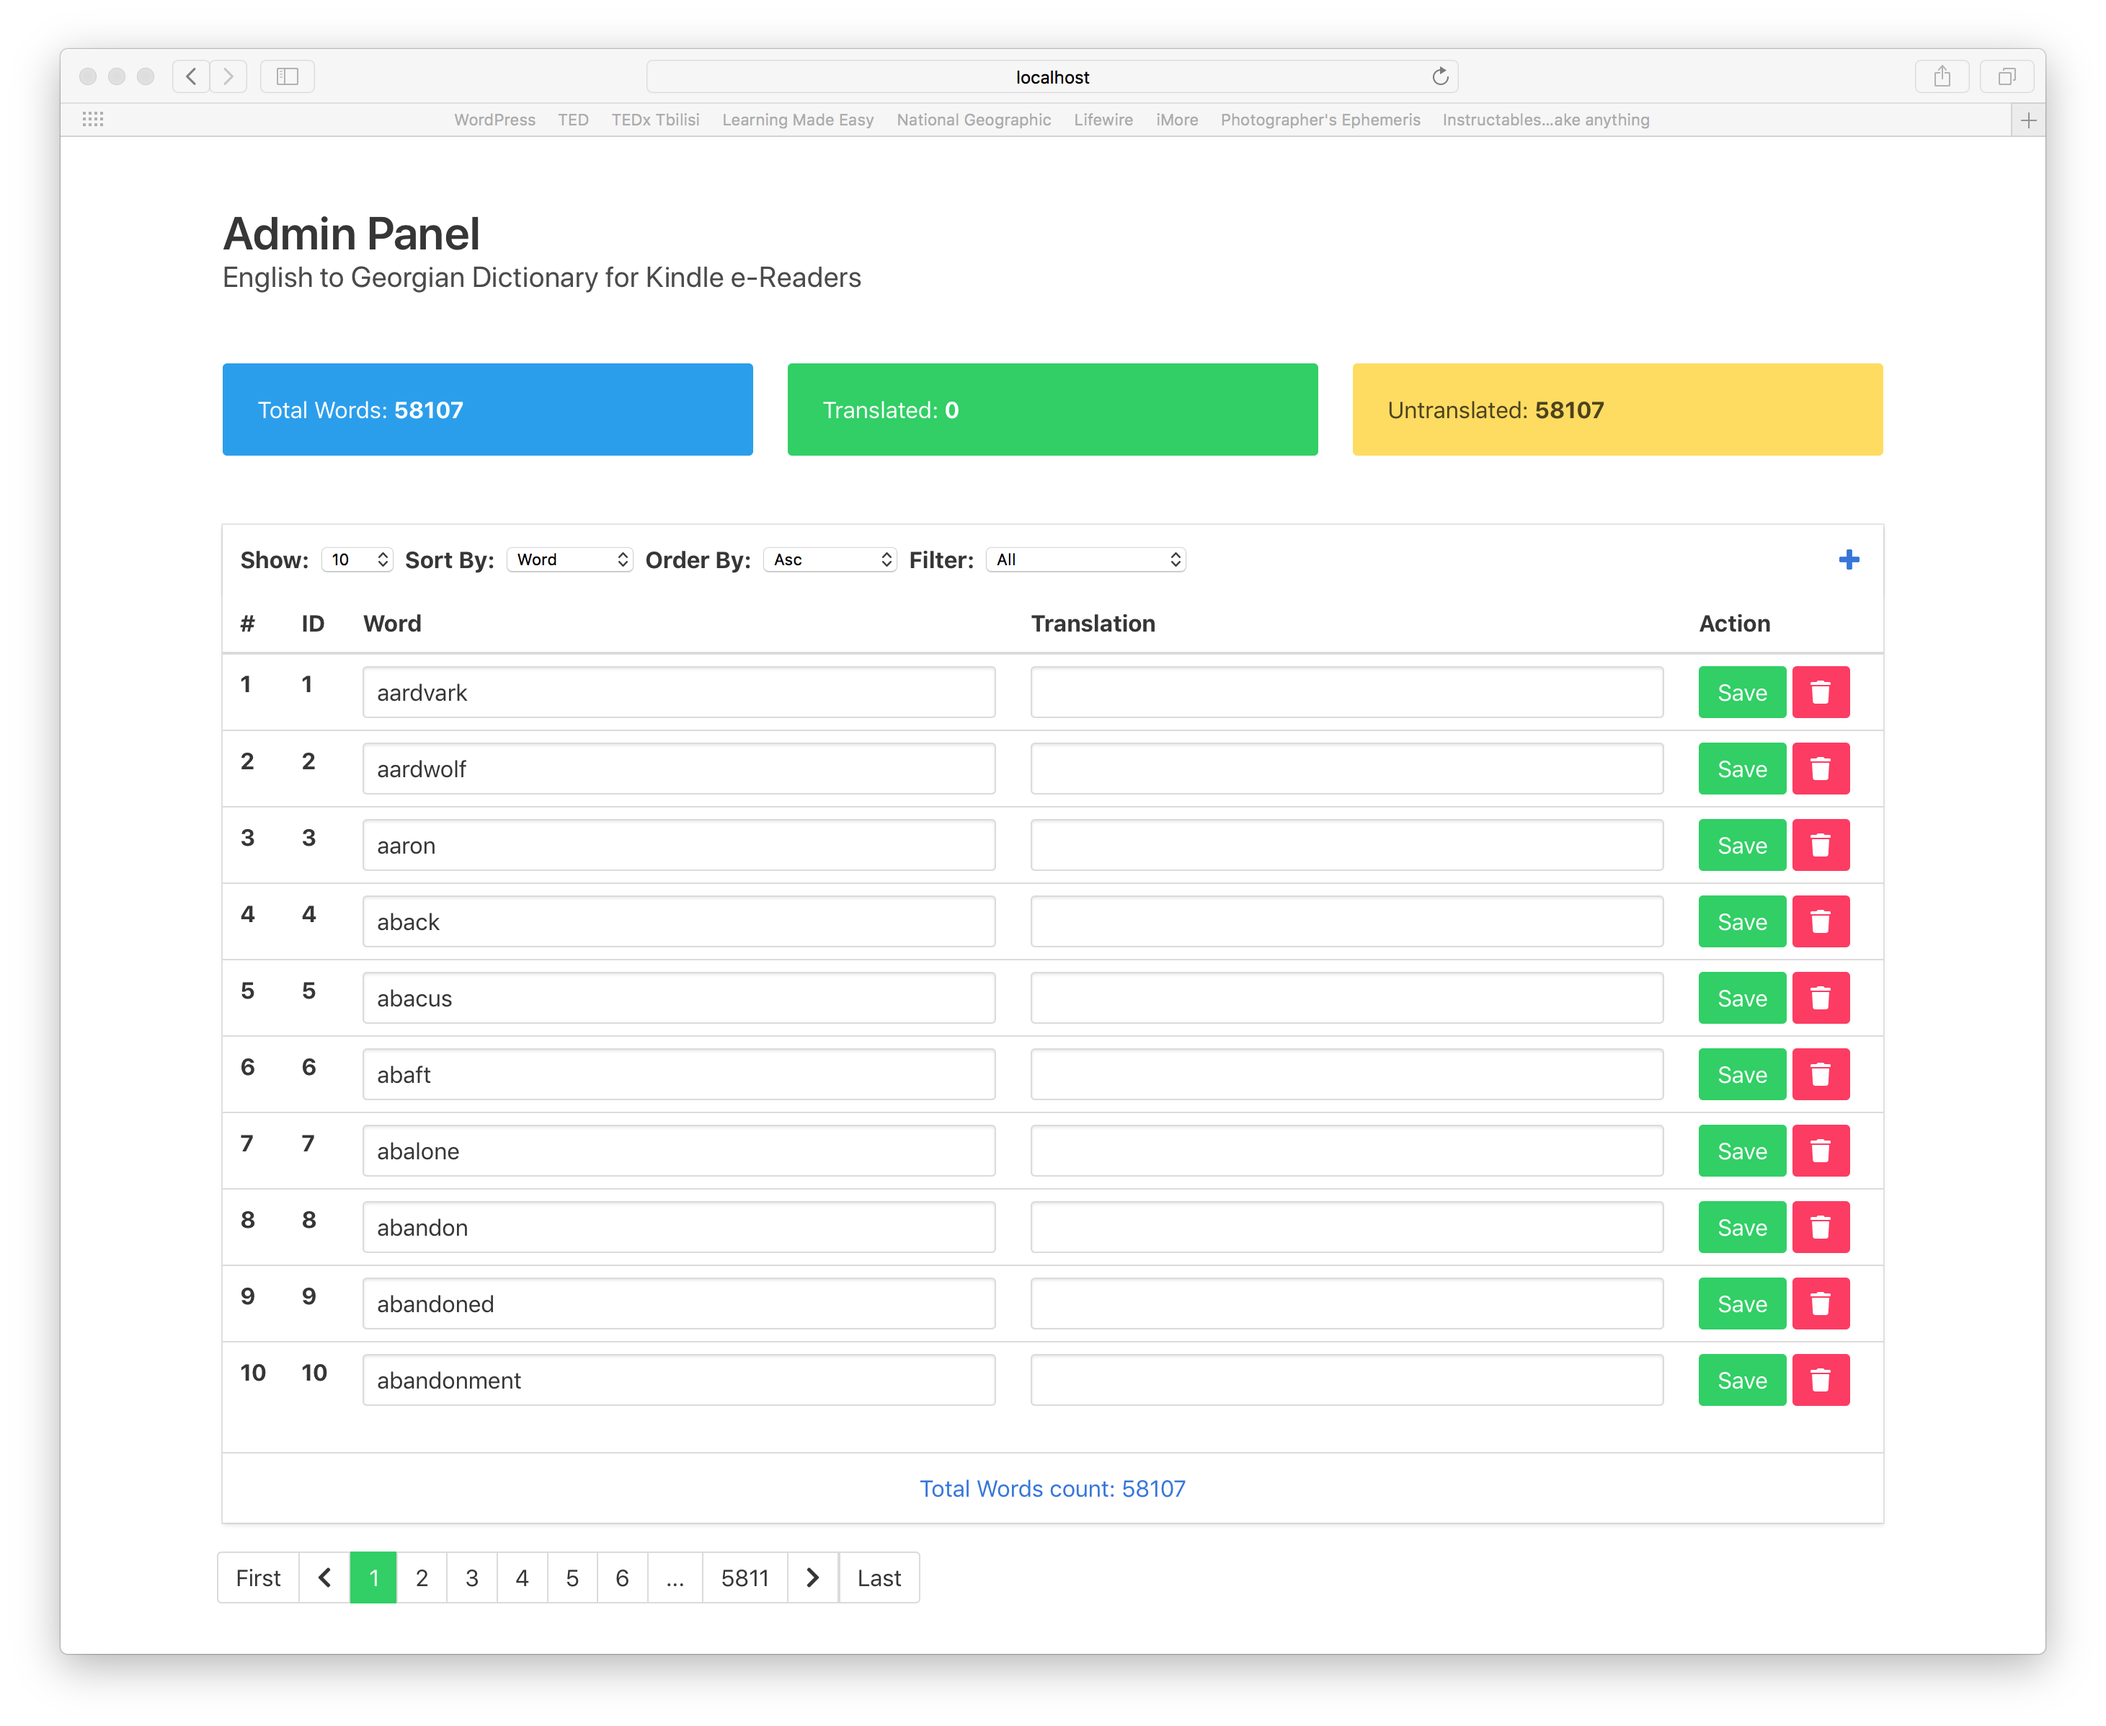
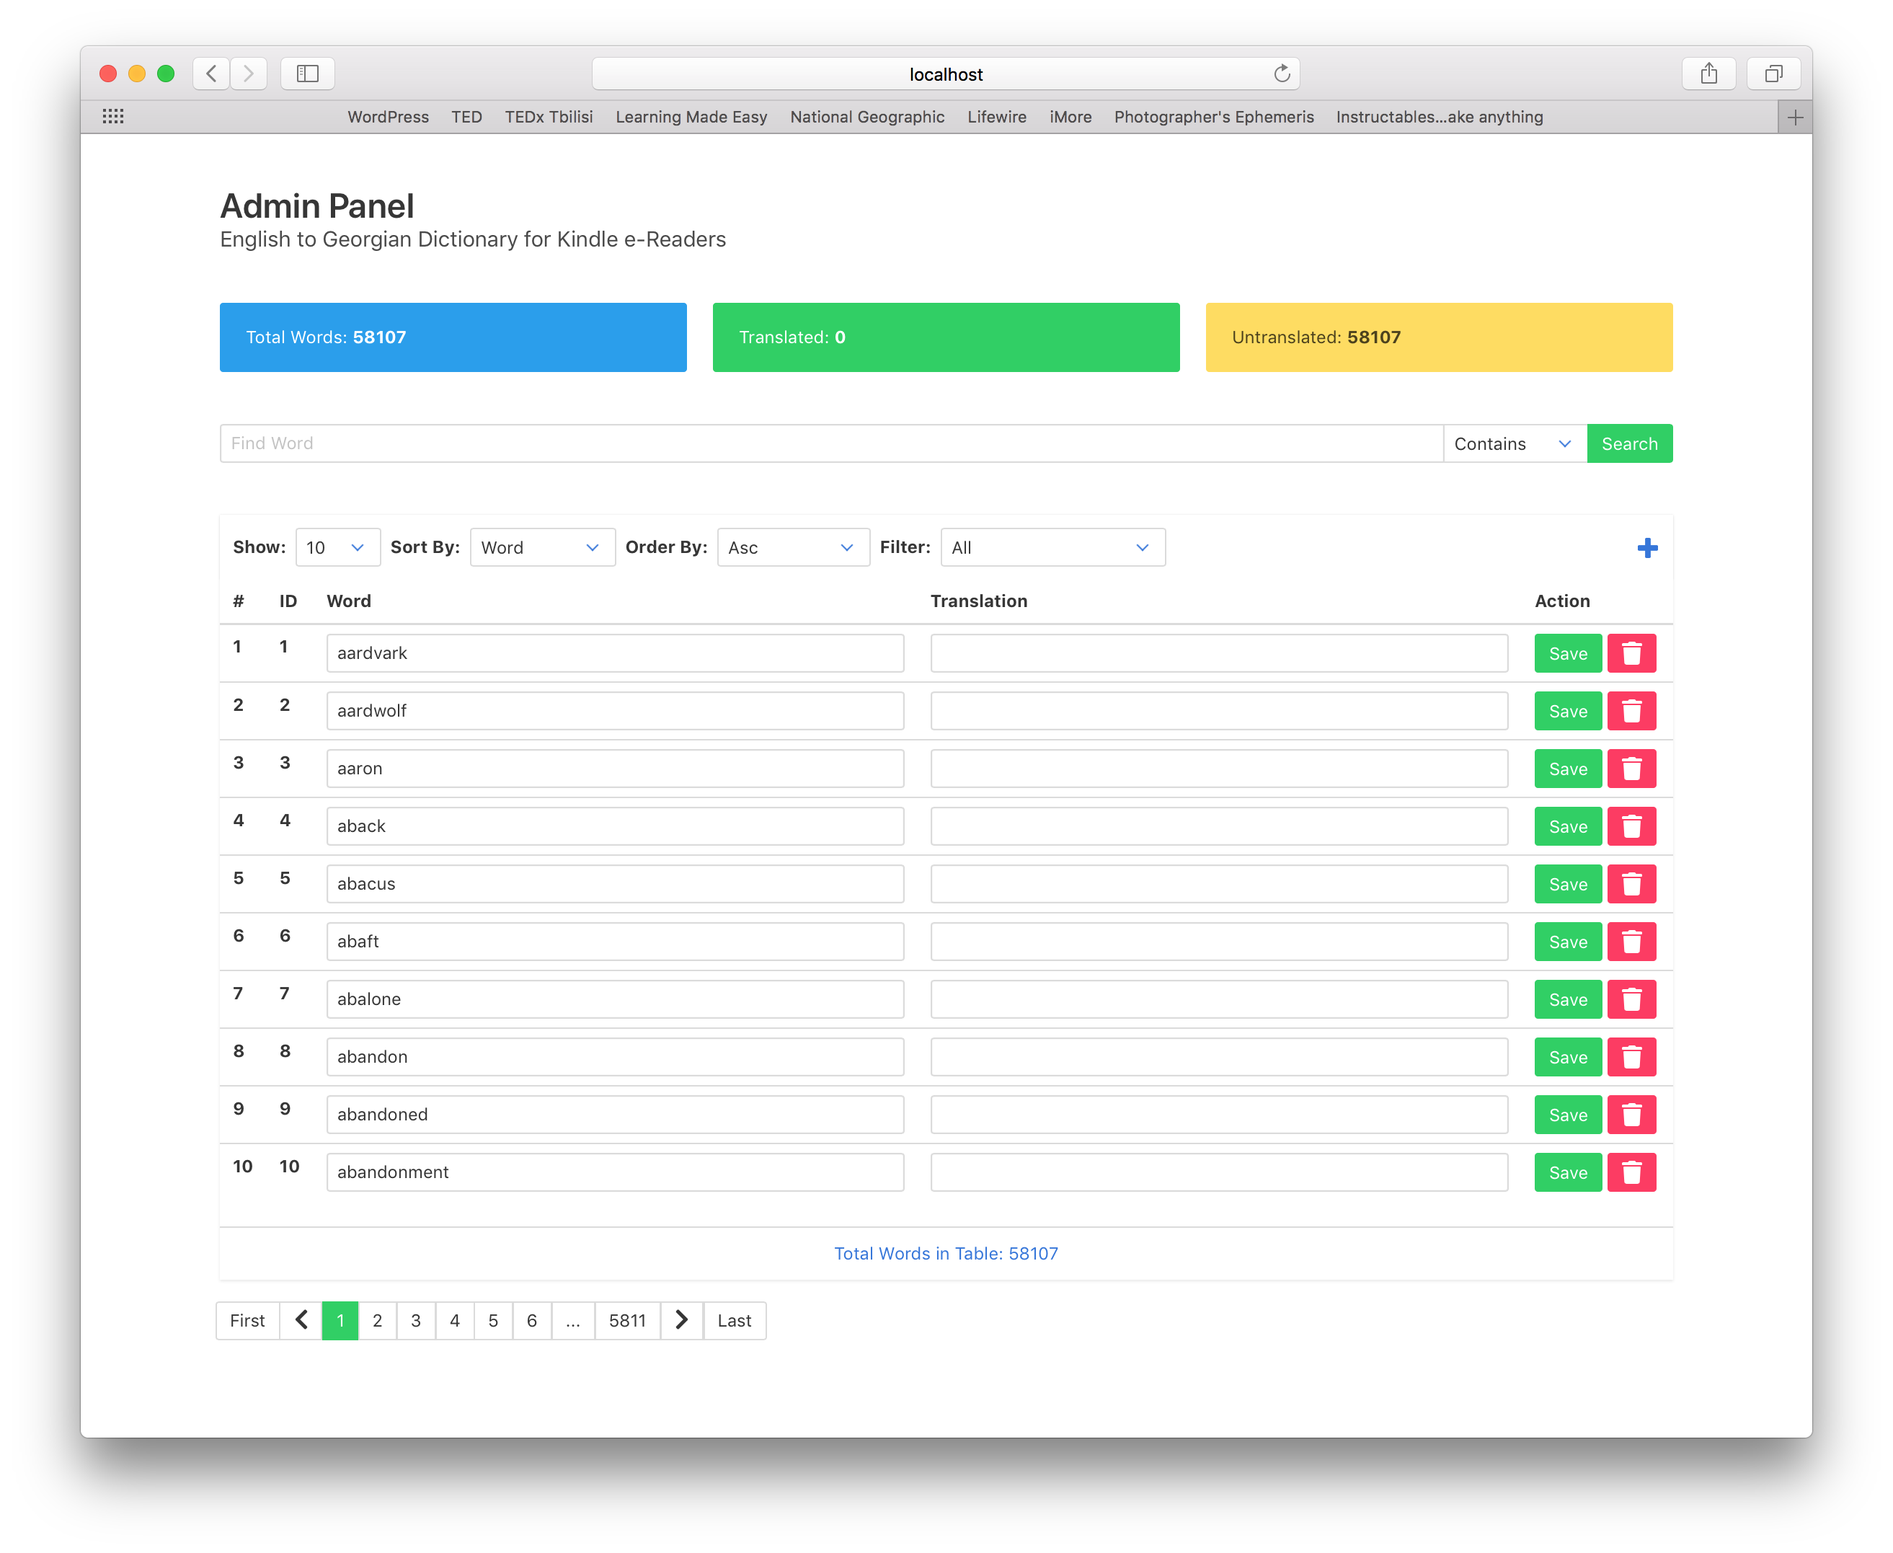
Added Search

diff --git a/admin/index.html b/admin/index.html
@@ -45,35 +45,72 @@
                     </div>
                 </div>
         </section>
+        <section class="hero">
+            <div class="hero-body" style="padding-bottom: 0">
+                <div class="container">
+                    <div class="columns">
+                        <form class="column" v-on:submit.prevent="init()">
+                            <div class="field has-addons">
+                                <div class="control  is-expanded">
+                                    <input class="input" v-model="searchTerm" type="text" placeholder="Find Word">
+                                </div>
+                                <p class="control">
+                                    <span class="select">
+                                        <select v-model="searchMode"> 
+                                            <option value="contains">Contains</option>
+                                            <option value="equals">Equals</option>
+                                            <option value="starts">Starts with</option>
+                                            <option value="ends">Ends with</option>
+                                        </select>
+                                    </span>
+                                </p>
+                                <div class="control">
+                                    <button type="submit" class="button is-success">
+                                        Search
+                                    </button>
+                                </div>
+                            </form>
+                        </div>
+                    </div>
+                </div>
+        </section>
         <section class="section">
             <div class="container">
                 <div class="card">
                     <header class="card-header">
                         <p class="card-header-title">
                             Show: &nbsp;
-                            <select v-model="limit" @change="init()">
-                                <option value="10">10</option>
-                                <option value="25">25</option>
-                                <option value="50">50</option>
-                                <option value="100">100</option>
-                            </select>
+                            <span class="select">
+                                <select v-model="limit" @change="init()">
+                                    <option value="10">10</option>
+                                    <option value="25">25</option>
+                                    <option value="50">50</option>
+                                    <option value="100">100</option>
+                                </select>
+                            </span>
                             &nbsp; Sort By: &nbsp;
-                            <select v-model="sort" @change="init()">
-                                <option value="id">ID</option>
-                                <option value="word">Word</option>
-                                <option value="translation">Translation</option>
-                            </select>
+                            <span class="select">
+                                <select v-model="sort" @change="init()">
+                                    <option value="id">ID</option>
+                                    <option value="word">Word</option>
+                                    <option value="translation">Translation</option>
+                                </select>
+                            </span>
                             &nbsp; Order By: &nbsp;
-                            <select v-model="order" @change="init()">
-                                <option value="asc">Asc</option>
-                                <option value="desc">Descending</option>
-                            </select>
+                            <span class="select">                        
+                                <select v-model="order" @change="init()">
+                                    <option value="asc">Asc</option>
+                                    <option value="desc">Descending</option>
+                                </select>
+                            </span>
                             &nbsp; Filter: &nbsp;
-                            <select v-model="filter" @change="init()">
-                                <option value="0">All</option>
-                                <option value="1">Translated</option>
-                                <option value="2">Whithout Translation</option>
-                            </select>
+                            <span class="select">                        
+                                <select v-model="filter" @change="init()">
+                                    <option value="0">All</option>
+                                    <option value="1">Translated</option>
+                                    <option value="2">Whithout Translation</option>
+                                </select>
+                            </span>
                         </p>
                         <a href="#" class="card-header-icon" aria-label="more options" @click="add()">
                             <span class="icon">
@@ -112,7 +149,7 @@
                     </div>
                     <footer class="card-footer">
                         <a href="#" class="card-footer-item">
-                            <span>Total Words count: {{ count }}</span>
+                            <span>Total Words in Table: {{ count }}</span>
                         </a>
                     </footer>
                 </div>

diff --git a/server.js b/server.js
@@ -23,12 +23,32 @@ app.get('/count', (request, response) => {
     let sqlString = ''
 
     if(request.query.filter == 1) {
-        sqlString = ' WHERE translation IS NOT NULL'
+        sqlString = ' AND translation IS NOT NULL'
     } else if(request.query.filter == 2) {
-        sqlString = ' WHERE translation IS NULL'
+        sqlString = ' AND translation IS NULL'
     }
+    
+    let sqlString1 = ''
 
-    db.all(`SELECT count(*) as count FROM words ${sqlString}`, [], (err, rows) => {
+    if(request.query.searchTerm) {
+        const term = request.query.searchTerm
+        switch (request.query.searchMode) {
+            case 'contains':
+                sqlString1 = ` AND word like '%${term}%' `
+                break;
+            case 'starts':
+                sqlString1 = ` AND word like '${term}%' `
+                break;
+            case 'ends':
+                sqlString1 = ` AND word like '%${term}' `
+                break;
+            default:
+                sqlString1 = ` AND word = '${term}' `
+                break;
+        }
+    }
+    
+    db.all(`SELECT count(*) as count FROM words WHERE 1=1 ${sqlString} ${sqlString1}`, [], (err, rows) => {
         if (err) {
             throw new Error(err)
         }
@@ -82,12 +102,32 @@ app.get('/fetch', (request, response) => {
     let sqlString = ''
 
     if(request.query.filter == 1) {
-        sqlString = ' WHERE translation IS NOT NULL'
+        sqlString = ' AND translation IS NOT NULL'
     } else if(request.query.filter == 2) {
-        sqlString = ' WHERE translation IS NULL'
+        sqlString = ' AND translation IS NULL'
+    }
+
+    let sqlString1 = ''
+
+    if(request.query.searchTerm) {
+        const term = request.query.searchTerm
+        switch (request.query.searchMode) {
+            case 'contains':
+                sqlString1 = ` AND word like '%${term}%' `
+                break;
+            case 'starts':
+                sqlString1 = ` AND word like '${term}%' `
+                break;
+            case 'ends':
+                sqlString1 = ` AND word like '%${term}' `
+                break;
+            default:
+                sqlString1 = ` AND word = '${term}' `
+                break;
+        }
     }
     
-    db.all(`SELECT *, 0 as isLoading FROM words ${sqlString} ORDER BY ${(request.query.sort || 'word')} ${(request.query.order || 'asc')} LIMIT ${(request.query.offset || 0)}, ${(request.query.limit || 10)} `, [], (err, rows) => {
+    db.all(`SELECT *, 0 as isLoading FROM words WHERE 1=1 ${sqlString} ${sqlString1} ORDER BY ${(request.query.sort || 'word')} ${(request.query.order || 'asc')} LIMIT ${(request.query.offset || 0)}, ${(request.query.limit || 10)} `, [], (err, rows) => {
         if (err) {
             throw new Error(err)
         }

diff --git a/admin/app.js b/admin/app.js
@@ -10,6 +10,8 @@ var app = new Vue({
         count: 0,
         page: 0,
         limit: 10,
+        searchTerm: "",
+        searchMode: "equals",
         sort: "word",
         order: "asc",
         filter: "0",
@@ -32,10 +34,10 @@ var app = new Vue({
                 })
         },
         getWordCount() {
-            return axios.get(`${this.api}/count?filter=${this.filter}`)
+            return axios.get(`${this.api}/count?filter=${this.filter}&searchTerm=${this.searchTerm}&searchMode=${this.searchMode}`)
         },
         getWordList() {
-            axios.get(`${this.api}/fetch?limit=${this.limit}&offset=${(this.limit*this.page)}&sort=${this.sort}&order=${this.order}&filter=${this.filter}`)
+            axios.get(`${this.api}/fetch?limit=${this.limit}&offset=${(this.limit*this.page)}&sort=${this.sort}&order=${this.order}&filter=${this.filter}&searchTerm=${this.searchTerm}&searchMode=${this.searchMode}`)
                 .then(response => {
                     this.words = response.data
                 })
